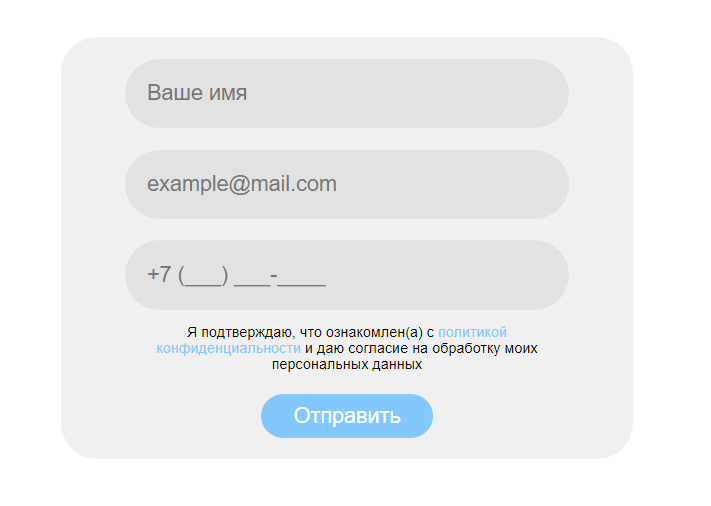
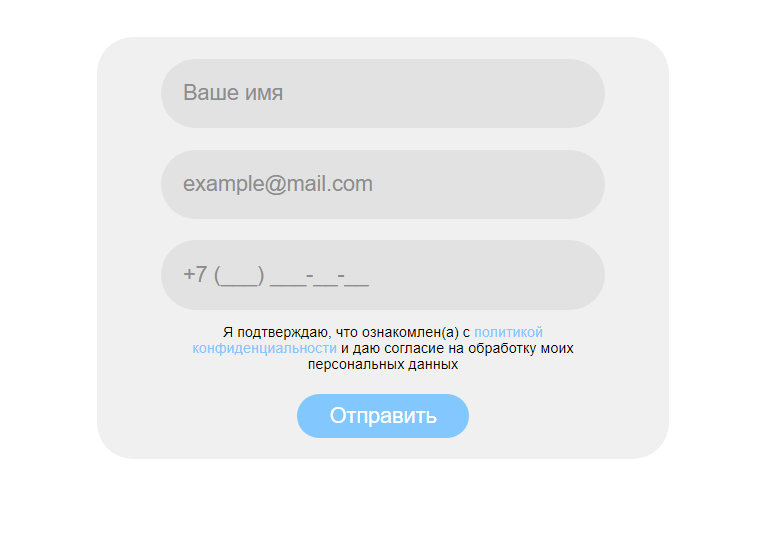
Update 02.02.2023

diff --git a/index/script.js b/index/script.js
@@ -53,6 +53,7 @@ form.addEventListener("submit", (event) => {
 	}
 })
 
+// Валидация(проверка) ввода полей
 function ValidateUsername(username) {
 	if (/^[А-ЯЁ а-яё A-Z a-z]+$/.test(username)) {
 		return (true)
@@ -74,6 +75,31 @@ function ValidateNumber(tel) {
 	return (false)
 }
 
-jQuery(function($) {
-	$(".phone_mask").mask("+7 (999) 999-9999");
+// Маска номера телефона и перемещение курсора в начало ввода
+$.fn.setCursorPosition = function(pos) {
+	if ($(this).get(0).setSelectionRange) {
+		$(this).get(0).setSelectionRange(pos, pos);
+	} else if ($(this).get(0).createTextRange) {
+		var range = $(this).get(0).createTextRange();
+		range.collapse(true);
+		range.moveEnd('character', pos);
+		range.moveStart('character', pos);
+		range.select();
+	}
+};
+
+function rightPos(phone) {
+	for (var i = 0; i < phone.length; i++) {
+		if (phone.charAt(i) == "_") {
+			console.log(phone.charAt(i));
+			return i
+		}
+	}
+	return phone.length - 1
+}
+$(".input_form_phone").click(function() {
+	let phone = $(this).val()
+	$(this).setCursorPosition(rightPos(phone));
+}).mask("+7 (999) 999-99-99", {
+	autoclear: false
 });

diff --git a/index.html b/index.html
@@ -13,7 +13,7 @@
          <form id="form">
             <input name="from_name" class="input_form_block" placeholder="Ваше имя" id="from_name" id="textInput"/><!-- Форма имени -->
             <input name="email_id" class="input_form_block" placeholder="example@mail.com" id="email_id" id="textInput"/><!-- Форма почты -->
-            <input type="text" name="tel_number" class="phone_mask" placeholder="+7 (___) ___-____" id="tel_number" id="textInput"/><!-- Форма телефона -->
+            <input type="text" name="tel_number" class="input_form_phone" placeholder="+7 (___) ___-__-__" id="tel_number" id="textInput"/><!-- Форма телефона -->
             <script src="https://cdn.jsdelivr.net/npm/jquery@3.2.1/dist/jquery.min.js" type="text/javascript"></script>
             <script src="https://cdn.jsdelivr.net/npm/jquery.maskedinput@1.4.1/src/jquery.maskedinput.js" type="text/javascript"></script>
             <div class="isNotAlert" id="alert">

diff --git a/index/style.css b/index/style.css
@@ -102,7 +102,7 @@ form {
         font-size: 42px;
    }
 }
-.phone_mask{
+.input_form_phone{
     background-color: #E2E2E2;
     border: none;
     outline:none;
@@ -119,23 +119,23 @@ form {
    /* Standard */
 }
 @media (min-width:280px){
-    .phone_mask{
+    .input_form_phone{
         font-size: 20px;
         width: 70%;
    }
 }
 @media (min-width:425px){
-    .phone_mask{
+    .input_form_phone{
         font-size: 22px;
    }
 }
 @media (min-width:768px){
-    .phone_mask{
+    .input_form_phone{
         font-size: 24px;
    }
 }
 @media (min-width:2560px){
-    .phone_mask{
+    .input_form_phone{
         font-size: 42px;
    }
 }
@@ -202,6 +202,9 @@ form {
 }
 .closebtn:hover{
     color: #c4c4c4;
+}
+::placeholder{
+    color: #8d8d8d;
 }
 .confidentiality{
     width: 80%;
